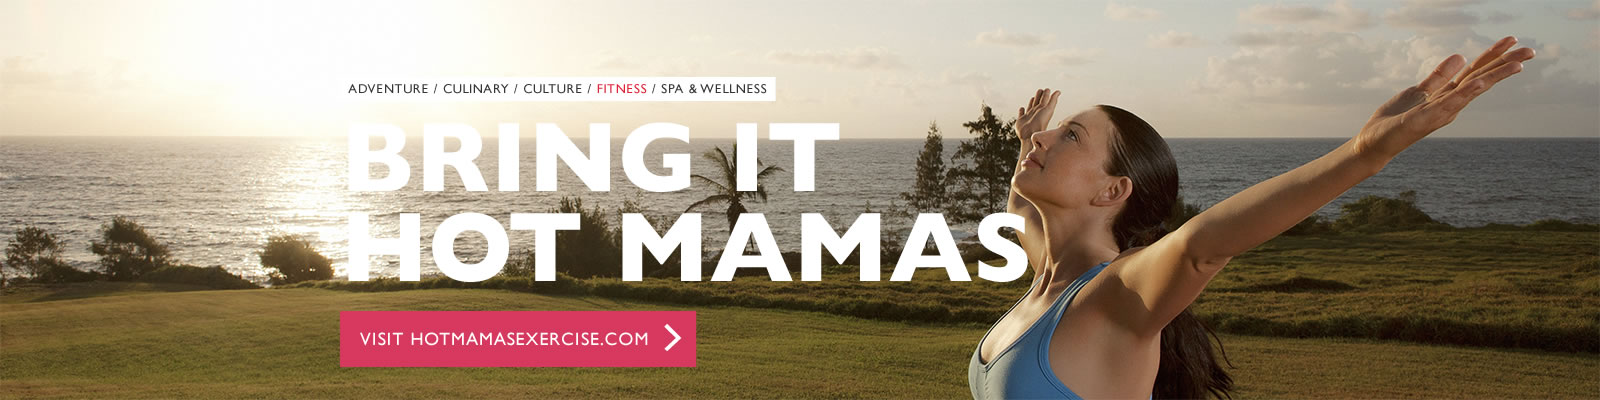
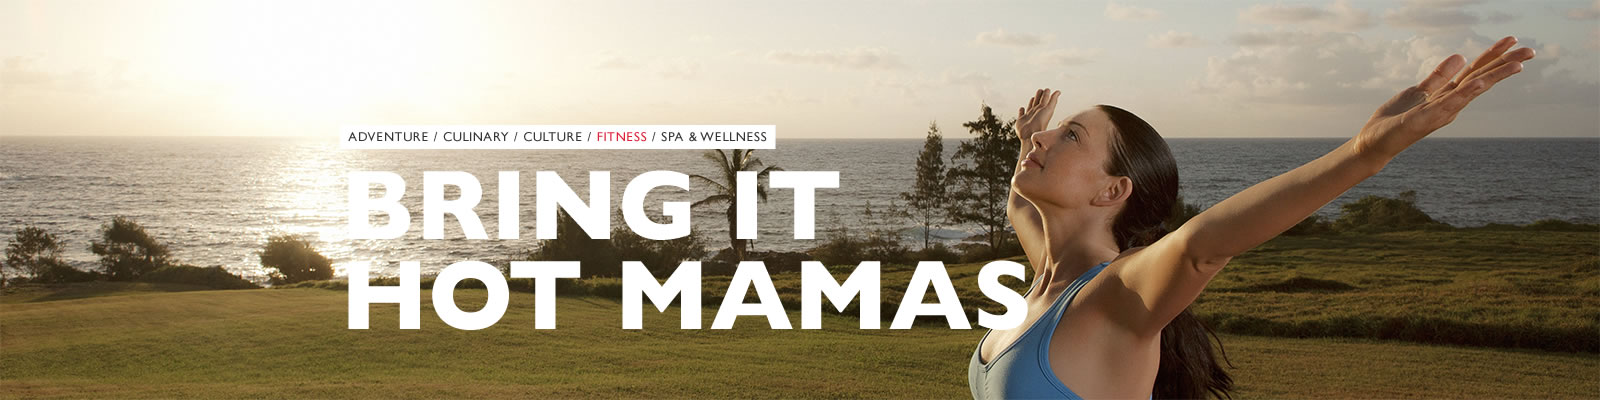
hot mamas edits

Changed region(s): [[0.1875, 0.3, 0.6562, 0.93], [0.2188, 0.18, 0.5, 0.27]]

diff --git a/hotmamas/index.php b/hotmamas/index.php
@@ -1,4 +1,3 @@
-
 <?php 
    $path = $_SERVER['DOCUMENT_ROOT'];
    include_once($path."/Library/Travaasa_Common.php");
@@ -20,33 +19,19 @@
 </head>
 <body>
 <?php 
-   include_once($path."/Library/Travaasa_Menu_Hana.php");?>
-<!--<section id="feature1_wrapper" class="subpage_bg"><img src="/assets/images/bg_hana_clouds.jpg" alt=""></section>-->
-<section id="feature1_wrapper" class="subpage400_bg"><a href="http://hotmamasexercise.com/" target="_blank"><img data-original="/assets/images/feature_400_hana_1600x400_hotmamas.jpg" src="/assets/images/feature_400_hana_1600x400_hotmamas.jpg" alt=""></section>
-
-<!--<section id="feature1_wrapper" class="feature_carousel sub_feature clearfix">
-    <div id="feature1" class="feature">
-      <div class="slide"><a href="https://travaasabbqbash.ticketbud.com/travaasa-bbq-bash" target="_blank"><img data-original="/assets/images/feature_austin_1600x640_bbq-bash.jpg" src="/assets/images/global/placeholder.gif" alt=""></a></div>
-    </div>
-    <a class="carousel_prev" id="feature1_prev" href="#"><span><b>prev</b></span></a>
-    <a class="carousel_next" id="feature1_next" href="#"><span><b>next</b></span></a>
-</section>-->
+   include_once($path."/Library/Travaasa_Menu_Hana.php");
+?>
+<!--<section id="feature1_wrapper" class="subpage400_bg"><img src="/assets/images/feature_400_hana_1600x400_hotmamas" alt=""></section>-->
+<section id="feature1_wrapper" class="subpage400_bg"><img data-original="/assets/images/feature_400_hana_1600x400_hotmamas.jpg" src="/assets/images/feature_400_hana_1600x400_hotmamas.jpg" alt=""></section>
 <section id="content">
 <article id="main">
   <section class="intro pad clearfix notheater">
-          <h1>HOT MAMAS RETREAT</h1>
-          <h2>November 1-4, 2013&nbsp;&nbsp;|&nbsp;&nbsp;<span style="color:#505050">$1,800</span></h2> 
-          <!--<ul>
-            <li>Accommodations in a low-rise bungalow Garden Suite</li>
-            <li>Roundtrip air from Kahului Airport (OGG) to Hana Airport (HNM) for two (valued at $240)</li>
-            <li>Ground transportation to and from the Hana Airport</li>
-            <li>$25 per person spa credit</li>
-            <li>$25 per person private activity credit</li>
-            <li>$50 total food &#38; beverage credit</li>
-          </ul>-->
+            <h1>HOT MAMAS RETREAT</h1>
+          <H2>November 1-4, 2013&nbsp;&nbsp;<span style="color:#505050">|&nbsp;&nbsp;$1,800</span></H2></div>
+          <p>You haven’t experienced a real group exercise class until you’ve experienced a <a href="http://hotmamasexercise.com/" target="_blank">Hot Mamas</a> group exercise class. Hundreds of women are challenged every week at Hot Mamas with a wide variety of classes to suit everyone’s needs &amp; mood: All designed to work you from head to toe and everywhere in between! Each class is unique, eliminating the typical boredom from repetition so common in group classes. What sets Hot Mamas apart from other classes? We understand a woman’s physique and know that a woman’s body is trained differently than a man. Even our bootcamps focus on getting you strong, but with the mindset of helping you creating a long, lean feminine form — not bulky and thick. And, if weight-loss is your goal, we have classes for that too. Plus amazing dietitians to help get your eating on track!</p>
           <p><a href="mailto:info@hotmamasexercise.com?Subject=Hana%20Retreat" class="btn" target="_blank">EMAIL TEDDI B. FOR MORE INFO</a></p>
-          <br><br><br>
   </section>
+  
 </article>
 </section>
 <?php 
@@ -55,6 +40,8 @@
    include_once($path."/Library/Travaasa_Scripts.php");
 ?><script type="text/javascript">
 $(function() {
+	$('a[data-target="flare"]').peFlareLightbox();
+	setLocation("Hana", "rooms");
 });
 </script>
 </body>
